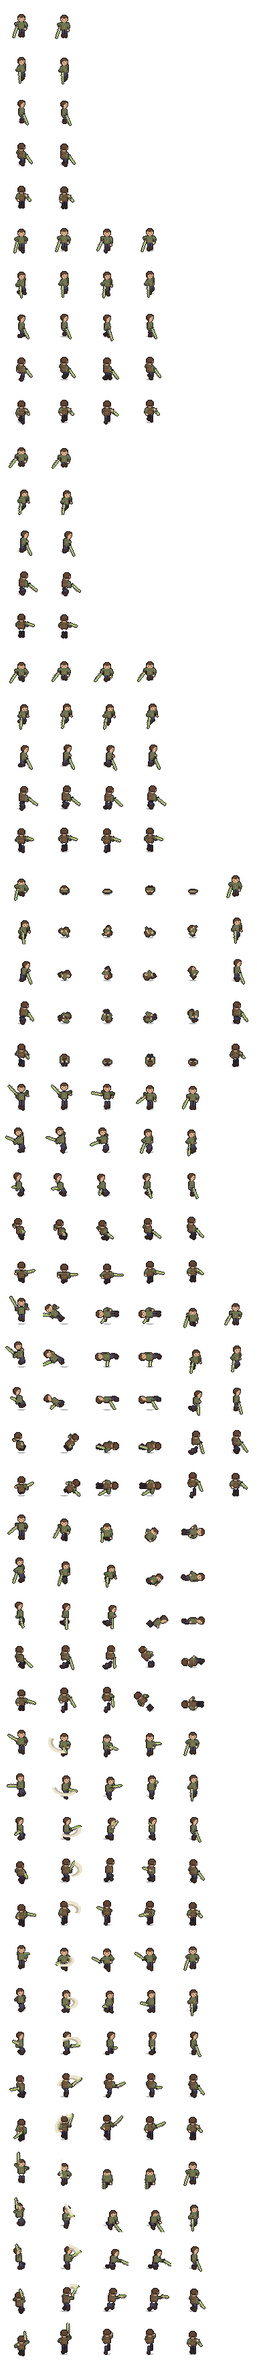
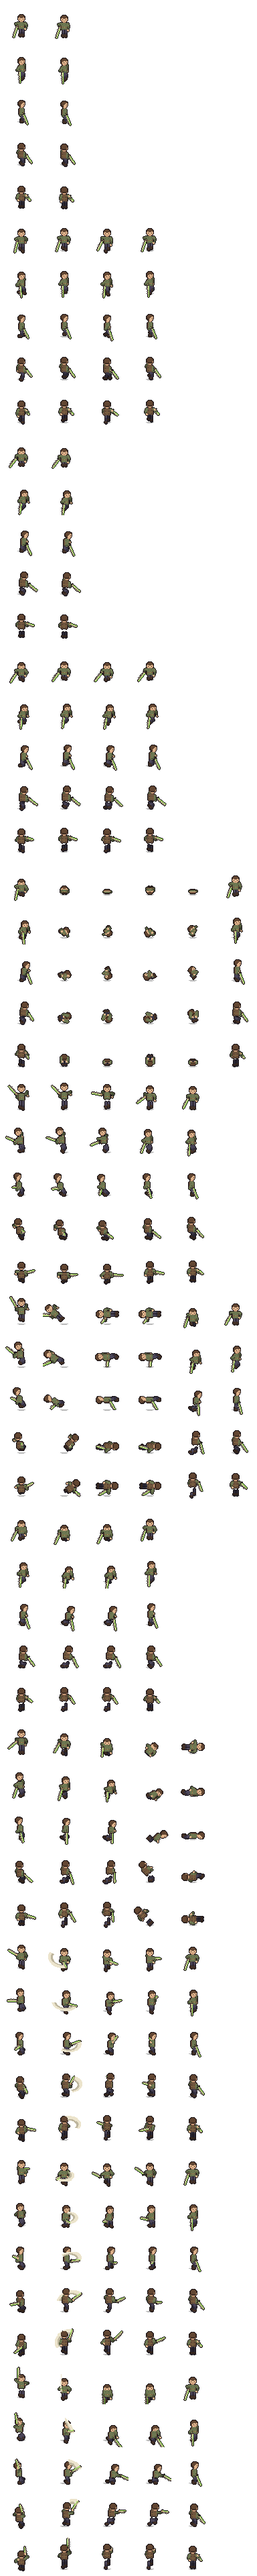
주인공 줍기 모션 (쪼그려 집기)
Claude-Session: https://claude.ai/code/session_01Vq3FZ4fVsT8bviQCrnkBFu

diff --git a/tools/art/pixel_hero.py b/tools/art/pixel_hero.py
@@ -547,6 +547,11 @@ COMMON = {
                P(rot=-90, head=1, w=W(150, -10, 3)),
                P(crouch=7, lean=25, head=2, fl=(0, -4, 0), fr=(0, 2, 0), off=(0, 3, -3), w=W(80, -70, 3)),
                P(crouch=3, lean=10, w=W(60, -50, 3))],
+ # 줍기·채집: 무릎 굽혀 숙임 → 빈손을 바닥까지 뻗음 → 집어 올림 → 일어남
+ 'gather': [P(crouch=3, lean=18, head=1, fl=(0, -1, 0), fr=(0, 1, 0), off=(0, 3, -1), w=W(55, -50, 3)),
+            P(crouch=6, lean=34, head=2, fl=(0, -2, 0), fr=(0, 2, 0), off=(0, 6, -7), w=W(65, -60, 3)),
+            P(crouch=6, lean=32, head=2, fl=(0, -2, 0), fr=(0, 2, 0), off=(0, 5, -3), w=W(65, -60, 3)),
+            P(crouch=2, lean=10, head=1, off=(0, 3, 2), w=W(45, -55, 3))],
  # 쓰러짐: 휘청 → 무릎 꿇음 → 칼 떨굼 → 앞으로 쓰러짐 → 누움
  'death': [P(lean=-15, head=-1, lunge=-1, w=W(70, -30, 3)),
            P(crouch=6, lean=10, head=1, fl=(0, -4, 0), fr=(0, 2, 0), w=W(90, -60, 3)),
